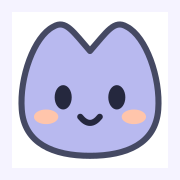
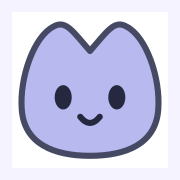
fix(web): remove Muvi cheek blush

Changed region(s): [[0.6667, 0.5833, 0.8333, 0.6944], [0.1667, 0.5833, 0.3333, 0.6944]]

diff --git a/web/scripts/build-muvi.ts b/web/scripts/build-muvi.ts
@@ -14,7 +14,6 @@ Object.defineProperty(globalThis, "FileReader", { value: BinaryReader, configura
 
 const skin = new MeshStandardMaterial({ color: "#b8b9ef", roughness: 0.72 });
 const ink = new MeshStandardMaterial({ color: "#25283e", roughness: 0.32 });
-const blush = new MeshStandardMaterial({ color: "#ffc5ab", roughness: 0.85 });
 const shine = new MeshStandardMaterial({ color: "#ffffff", roughness: 0.3 });
 const sphere = new SphereGeometry(1, 24, 16);
 const model = new Group(); model.name = "Muvi";
@@ -54,7 +53,6 @@ for (const side of [-1, 1]) {
   const eye = new Group(); eye.name = side < 0 ? "EyeL" : "EyeR"; eye.position.set(side * 0.29, 1.27, 0.505); body.add(eye);
   oval(eye, `${eye.name}Surface`, [0, 0, 0], [0.092, 0.125, 0.045], ink);
   oval(eye, `${eye.name}Highlight`, [-0.023, 0.045, 0.041], [0.022, 0.028, 0.009], shine);
-  oval(body, side < 0 ? "CheekL" : "CheekR", [side * 0.47, 1.06, 0.454], [0.13, 0.077, 0.024], blush);
   const arm = new Group(); arm.name = side < 0 ? "ArmL" : "ArmR"; arm.position.set(side * 0.73, 0.84, 0); body.add(arm);
   oval(arm, `${arm.name}Surface`, [side * 0.10, -0.19, 0.03], [0.18, 0.29, 0.20]);
   const foot = new Group(); foot.name = side < 0 ? "FootL" : "FootR"; foot.position.set(side * 0.29, 0.19, 0); model.add(foot);

diff --git a/web/design.md b/web/design.md
@@ -30,6 +30,10 @@ Muse is the starting point: one conversation, a quiet composer, and tools reveal
 - shadcn components keep their semantic names (`primary`, `secondary`, `border`, `input`, `ring`, `destructive`), which `globals.css` aliases to Muse tokens. shadcn's `accent`/`muted` mean something else here: use `sunken`/`selected` for hover and selection backgrounds, never `bg-accent` or `bg-muted`.
 - Respect reduced motion and visible keyboard focus. Dialogs require titles, Escape dismissal, close controls and focus restoration.
 
+## Muvi mascot
+
+Keep the rounded M silhouette, periwinkle body and dark eyes consistent across 2D and 3D. Muvi has no cheek blush; apply this to avatars, icons and the 3D model.
+
 ## Language
 
 Only `en` (Eng) and `ko` (한국어) are supported. App Settings changes the UI immediately; Korean is the default. The browser stores the preference and synchronizes other tabs. When storage is unavailable, the preference works for the session.

diff --git a/AGENTS.md b/AGENTS.md
@@ -105,7 +105,7 @@ attribution behavior built into the tool.
 
 - Muvi is the muvilion mascot. Use the canonical assets in `web/public/mascot/`
   for the website, chat avatars/launcher and icons. Keep its rounded M silhouette,
-  periwinkle body, dark eyes and peach cheeks consistent across 2D and 3D.
+  periwinkle body and dark eyes consistent across 2D and 3D; omit cheek blush.
 - The 3D drawing viewer includes optional decorative Muvi roaming. For now this is
   an illustrative animation only: do not connect it to wall collision, pathfinding,
   physical scale, occupancy/simulation, AI actions or design validation.
